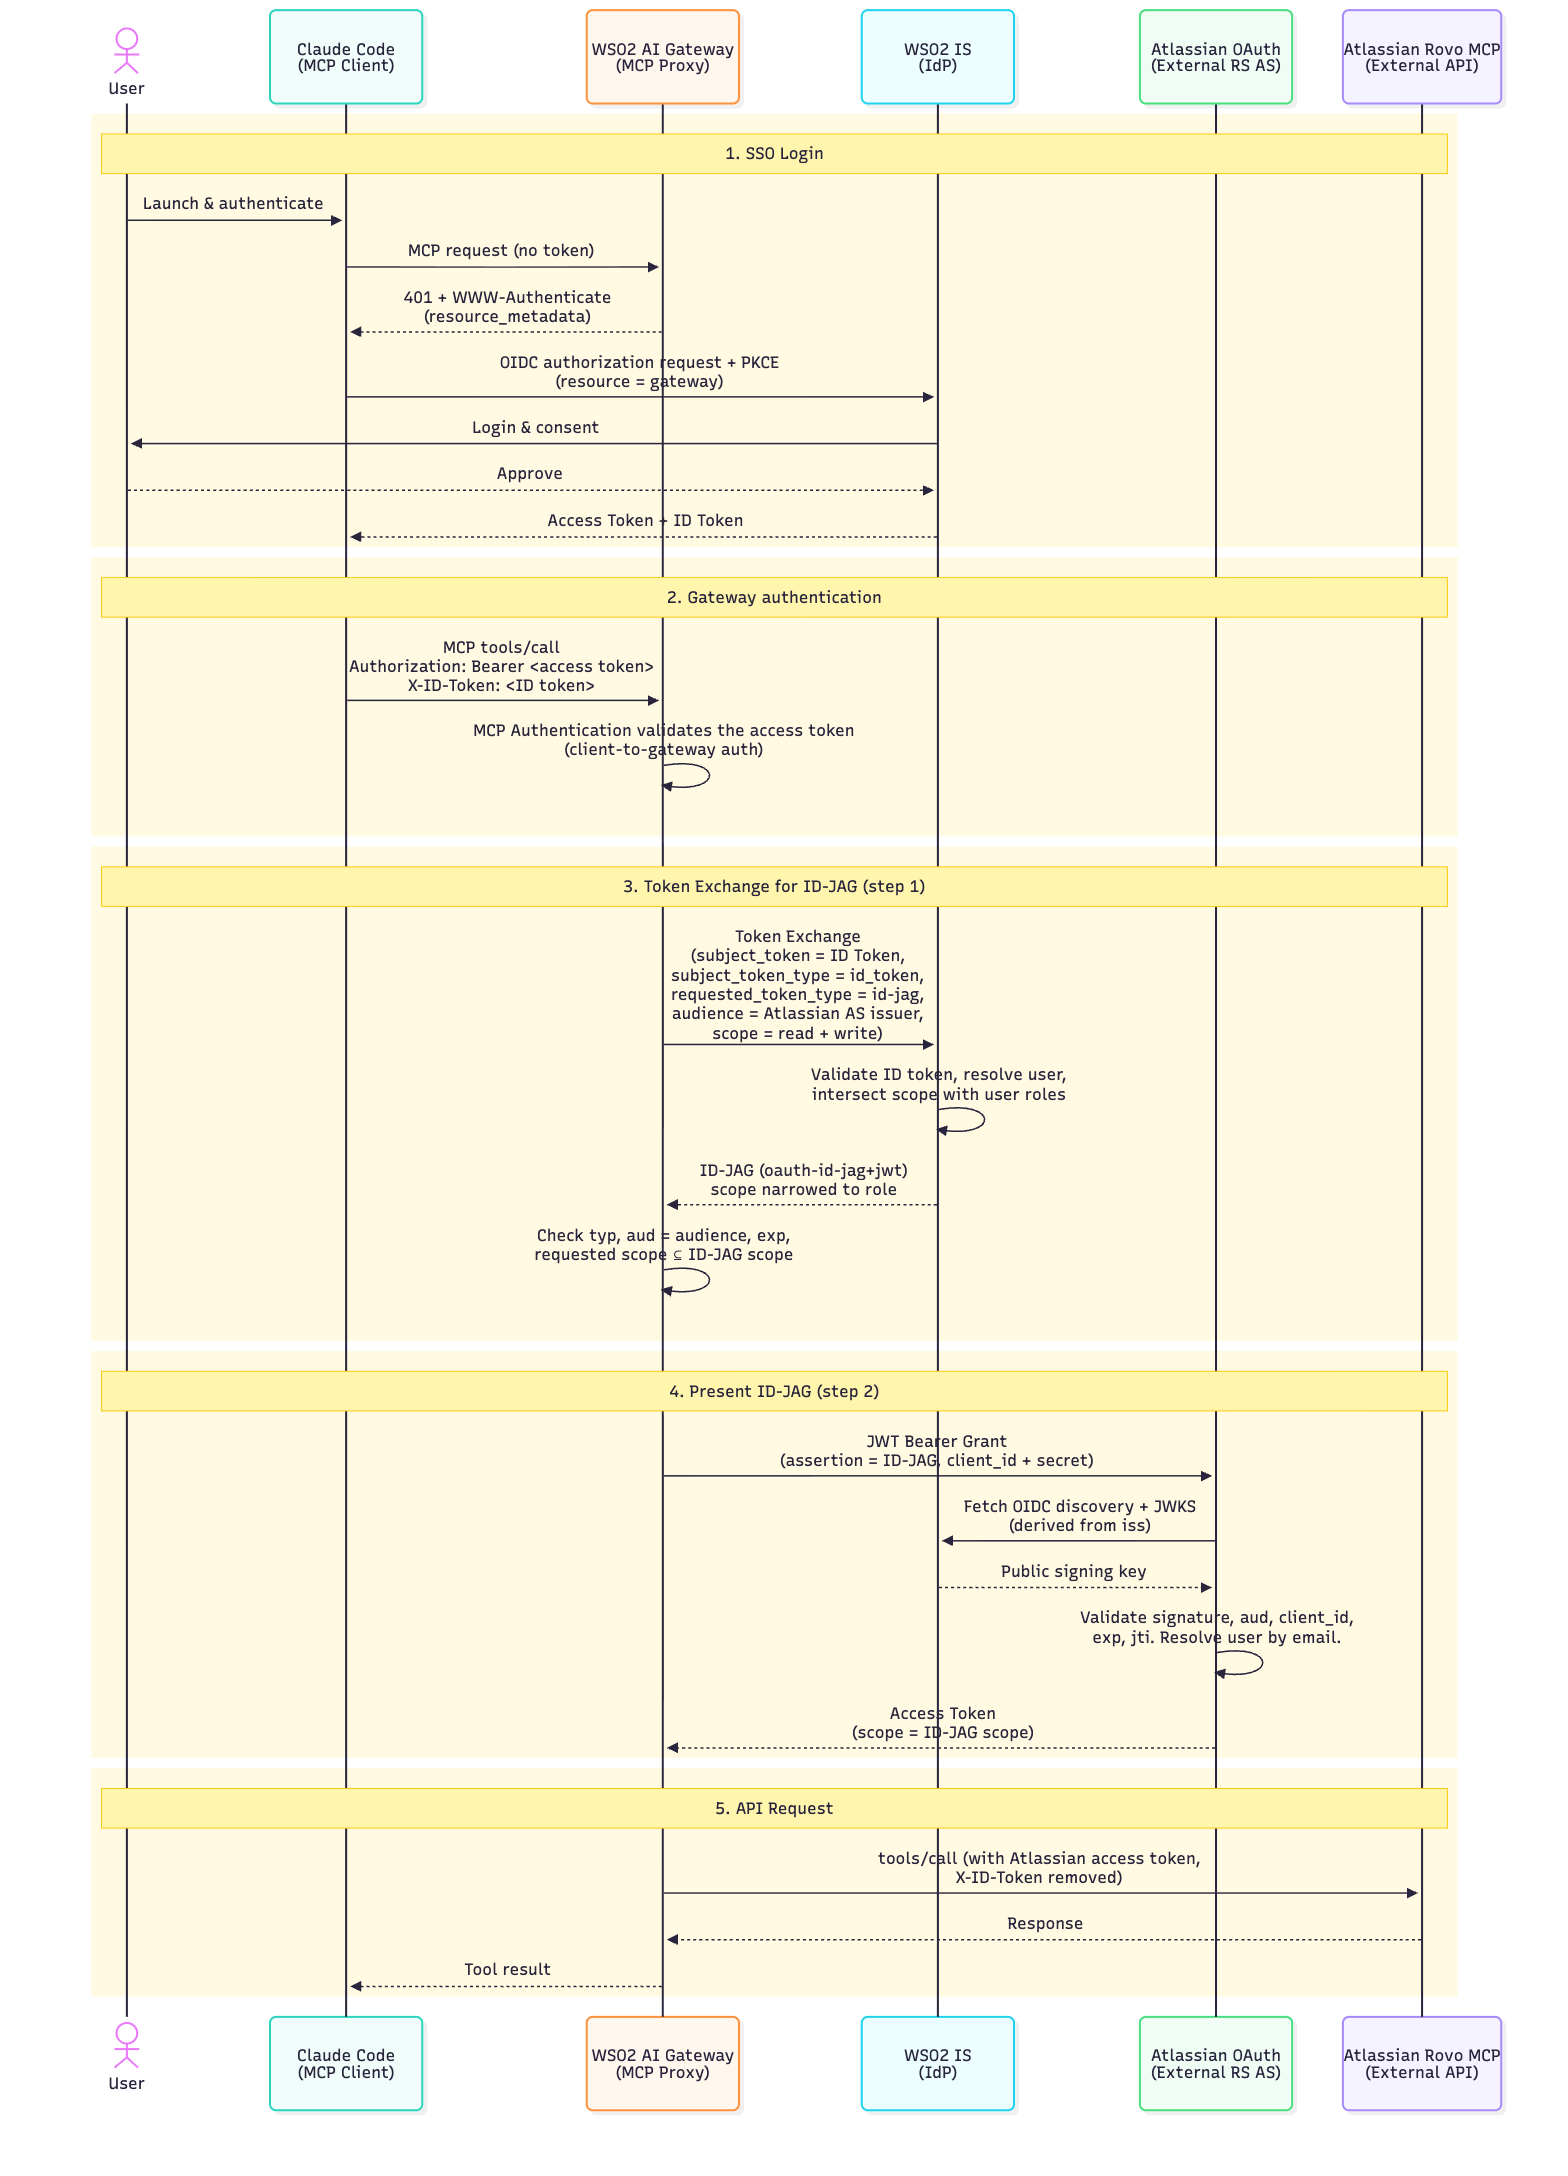
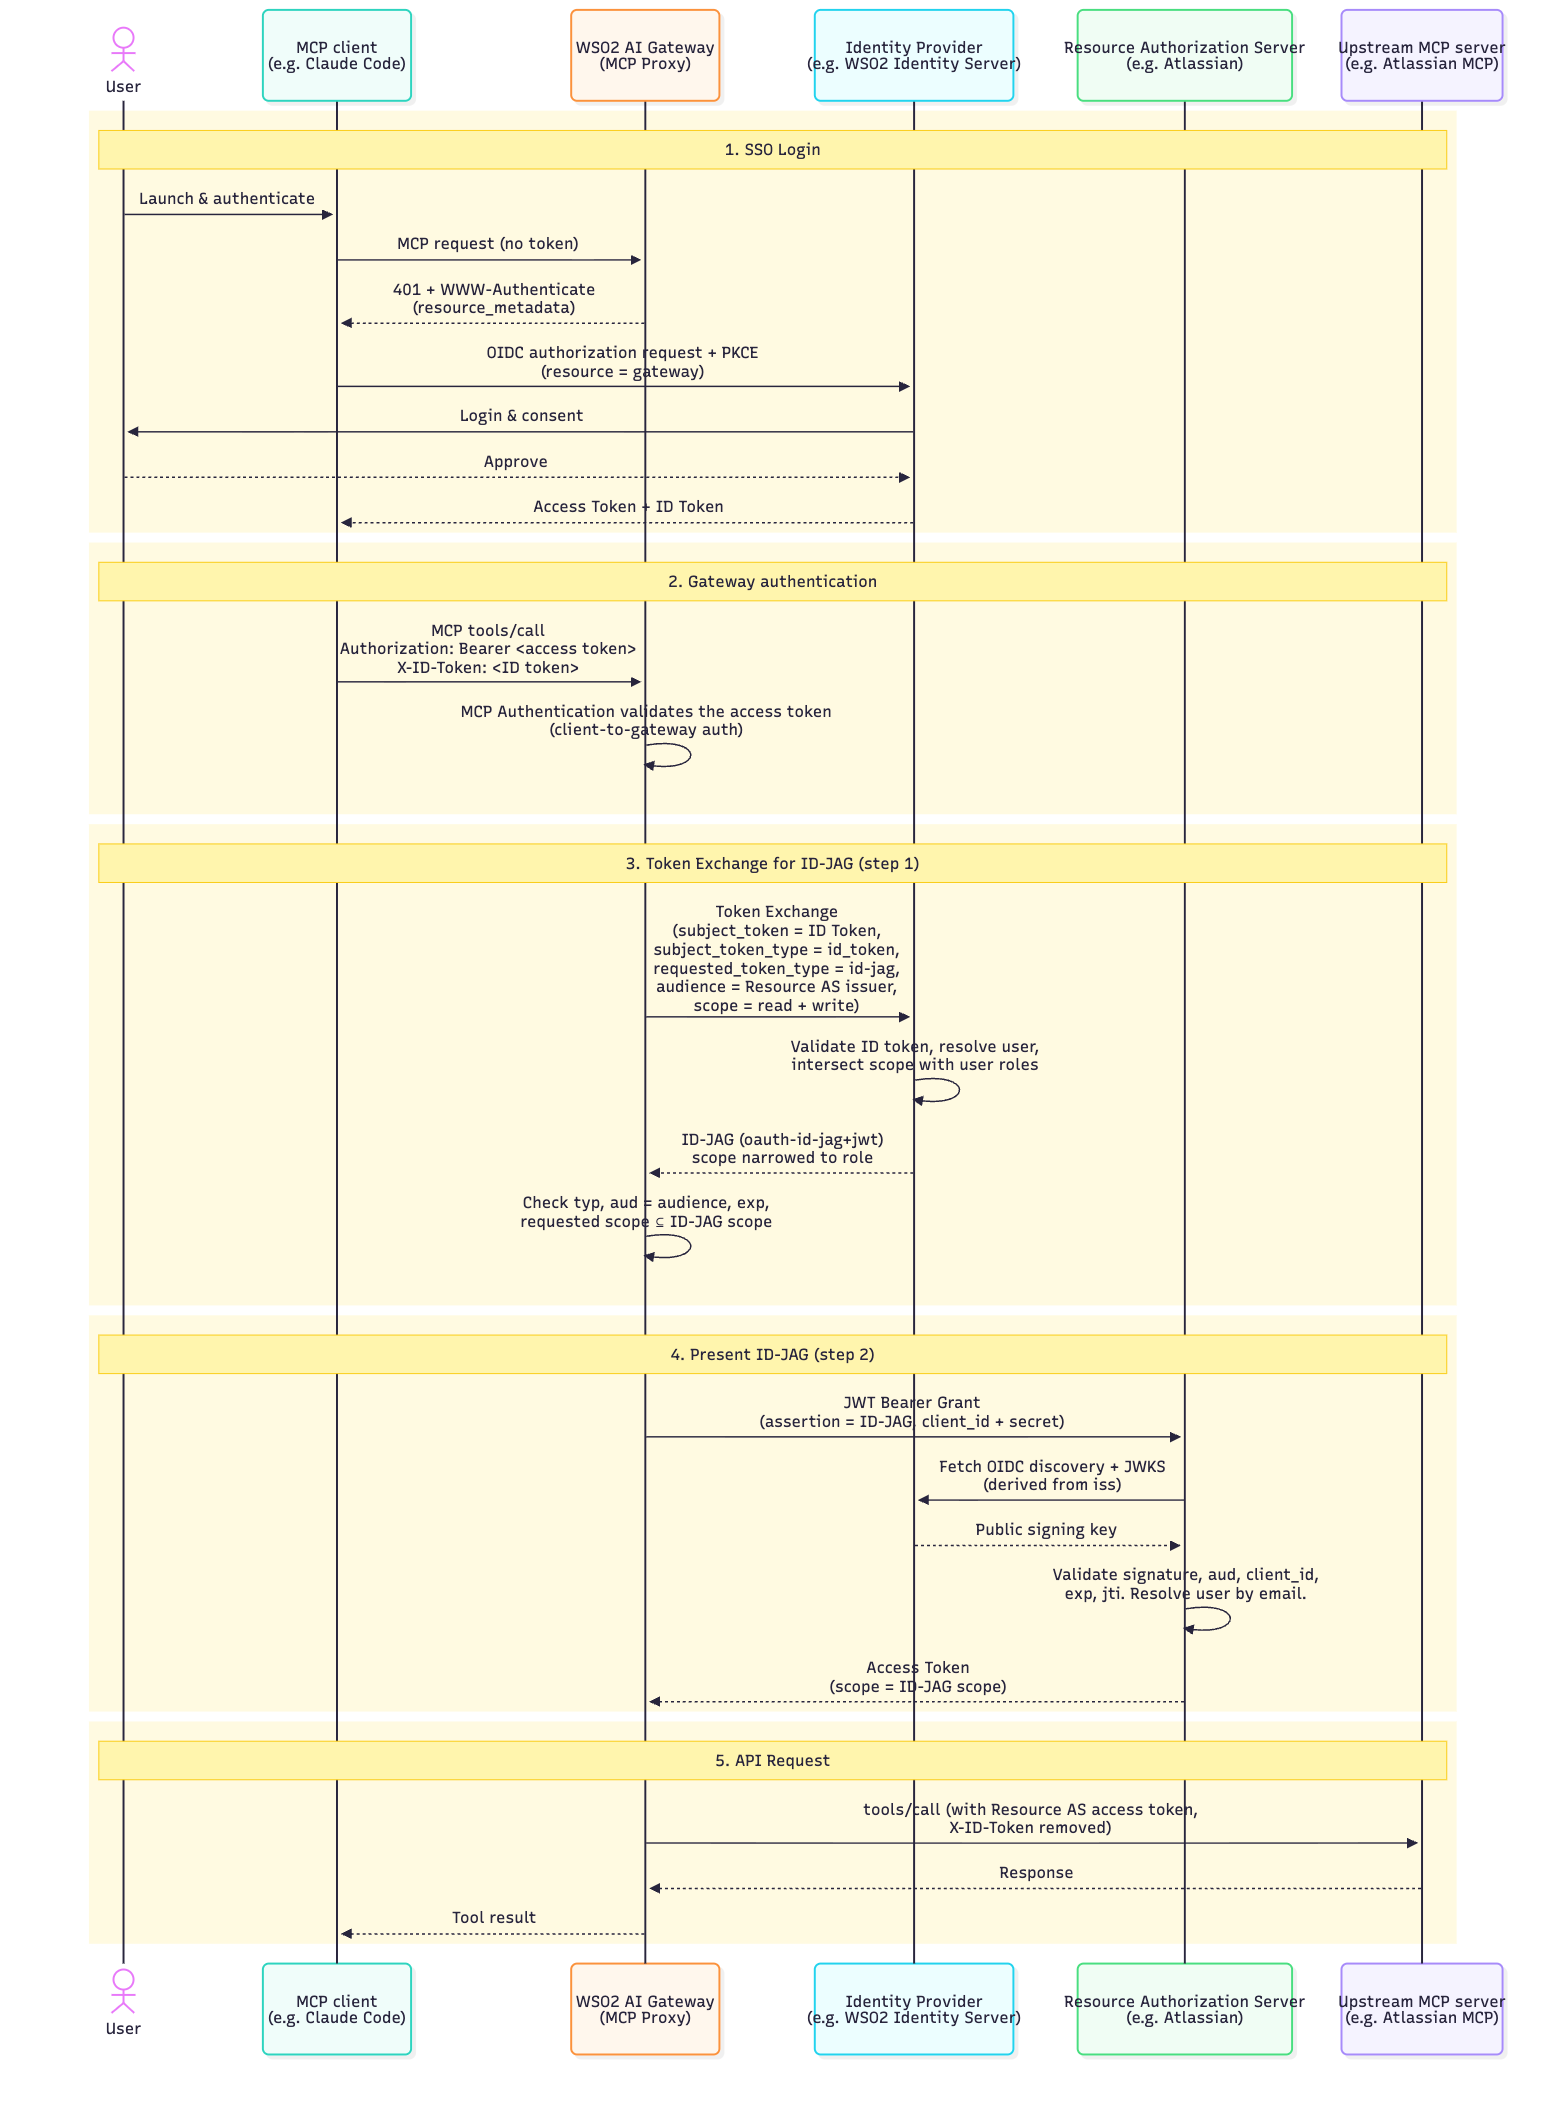
Update documentation

diff --git a/README.md b/README.md
@@ -10,14 +10,12 @@ client-facing behaviour: MCP Authentication is the client-to-gateway half,
 this policy is the gateway-to-upstream half.
 
 Any Identity Provider (IdP) that issues ID-JAGs and any Resource Authorization
-Server (Resource AS) that accepts them work. The diagrams below use this PoC's
-instances, WSO2 Identity Server and Atlassian, as examples.
+Server (Resource AS) that accepts them work. Where the diagrams and examples
+name products (WSO2 Identity Server, Atlassian, Figma, Claude Code) they are
+examples only; nothing in the policy is specific to them.
 
 Written in Go against `github.com/wso2/api-platform/sdk/core` v0.3.5 and
 compiled into the gateway image with the `ap` CLI. Policy version `v0.2.0`.
-This is the code that is deployed and exercised on the PoC gateway; the unit
-suite in `id_jag_test.go` covers both assertion flows end to end against fake
-IdP and Resource AS servers.
 
 ---
 
@@ -34,10 +32,6 @@ three subject token types:
 | OpenID Connect ID token | `urn:ietf:params:oauth:token-type:id_token` | Implementations MUST accept | **Supported**: `assertionType: id_token` |
 | Refresh token | `urn:ietf:params:oauth:token-type:refresh_token` | Optional, "to obtain a new ID-JAG without a new sign-in"; must be bound to the client requesting the ID-JAG | **Supported**: `assertionType: refresh_token` |
 | SAML 2.0 assertion | `urn:ietf:params:oauth:token-type:saml2` | Implementations MUST accept | Not supported, out of scope for this policy |
-
-An **access token is not an identity assertion** and the spec does not allow it
-as the subject. That is the correction over the earlier `gateway-id-jag`
-policy, which sent the inbound access token.
 
 Whichever assertion is used, the rest is the same: the IdP returns an ID-JAG,
 the gateway presents it to the Resource AS in an RFC 7523 JWT-bearer grant, and
@@ -137,8 +131,8 @@ Used by both flows.
   requires every IdP to accept, it costs one IdP call per exchange, and no
   refresh token is ever minted. It needs the client or agent to forward the
   user's ID token, which not every MCP client does.
-- **Refresh token** when only the gateway access token reaches the gateway, as
-  with Claude Code and most off-the-shelf MCP clients. It costs one extra IdP
+- **Refresh token** when only the gateway access token reaches the gateway,
+  which is the case for most off-the-shelf MCP clients. It costs one extra IdP
   call per exchange and depends on the IdP issuing refresh tokens to the
   gateway's client through token exchange.
 
@@ -435,7 +429,6 @@ and [section 4](#4-client-credentials-credentialref).
 │   ├── config.toml          # credential sets, read from the environment
 │   └── policy-attachment.yaml
 ├── docs/                    # flow diagrams (PNG) and their Mermaid sources
-├── CHANGELOG.md
 └── LICENSE                  # Apache 2.0
 ```
 
